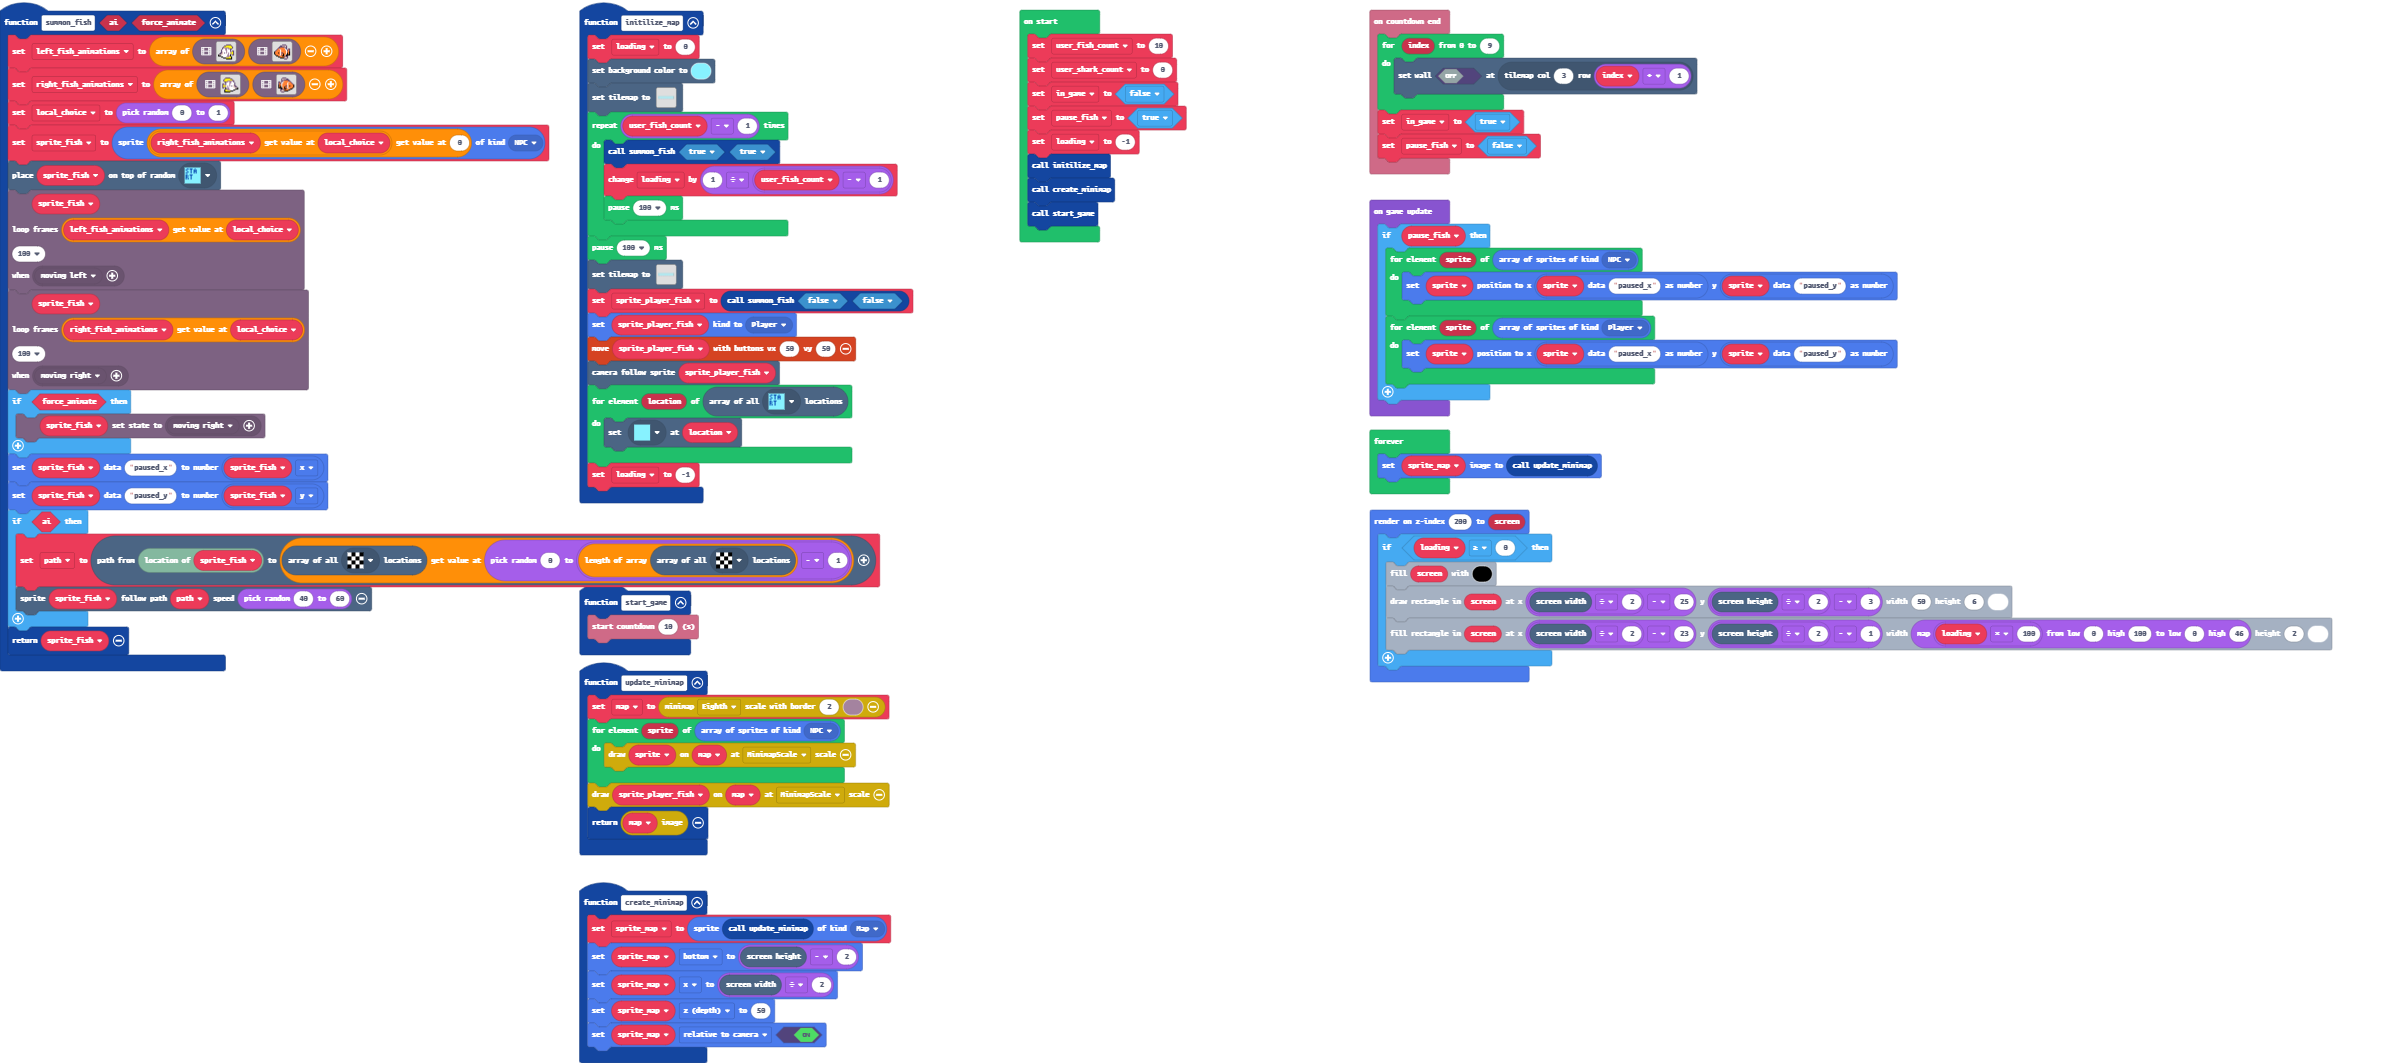
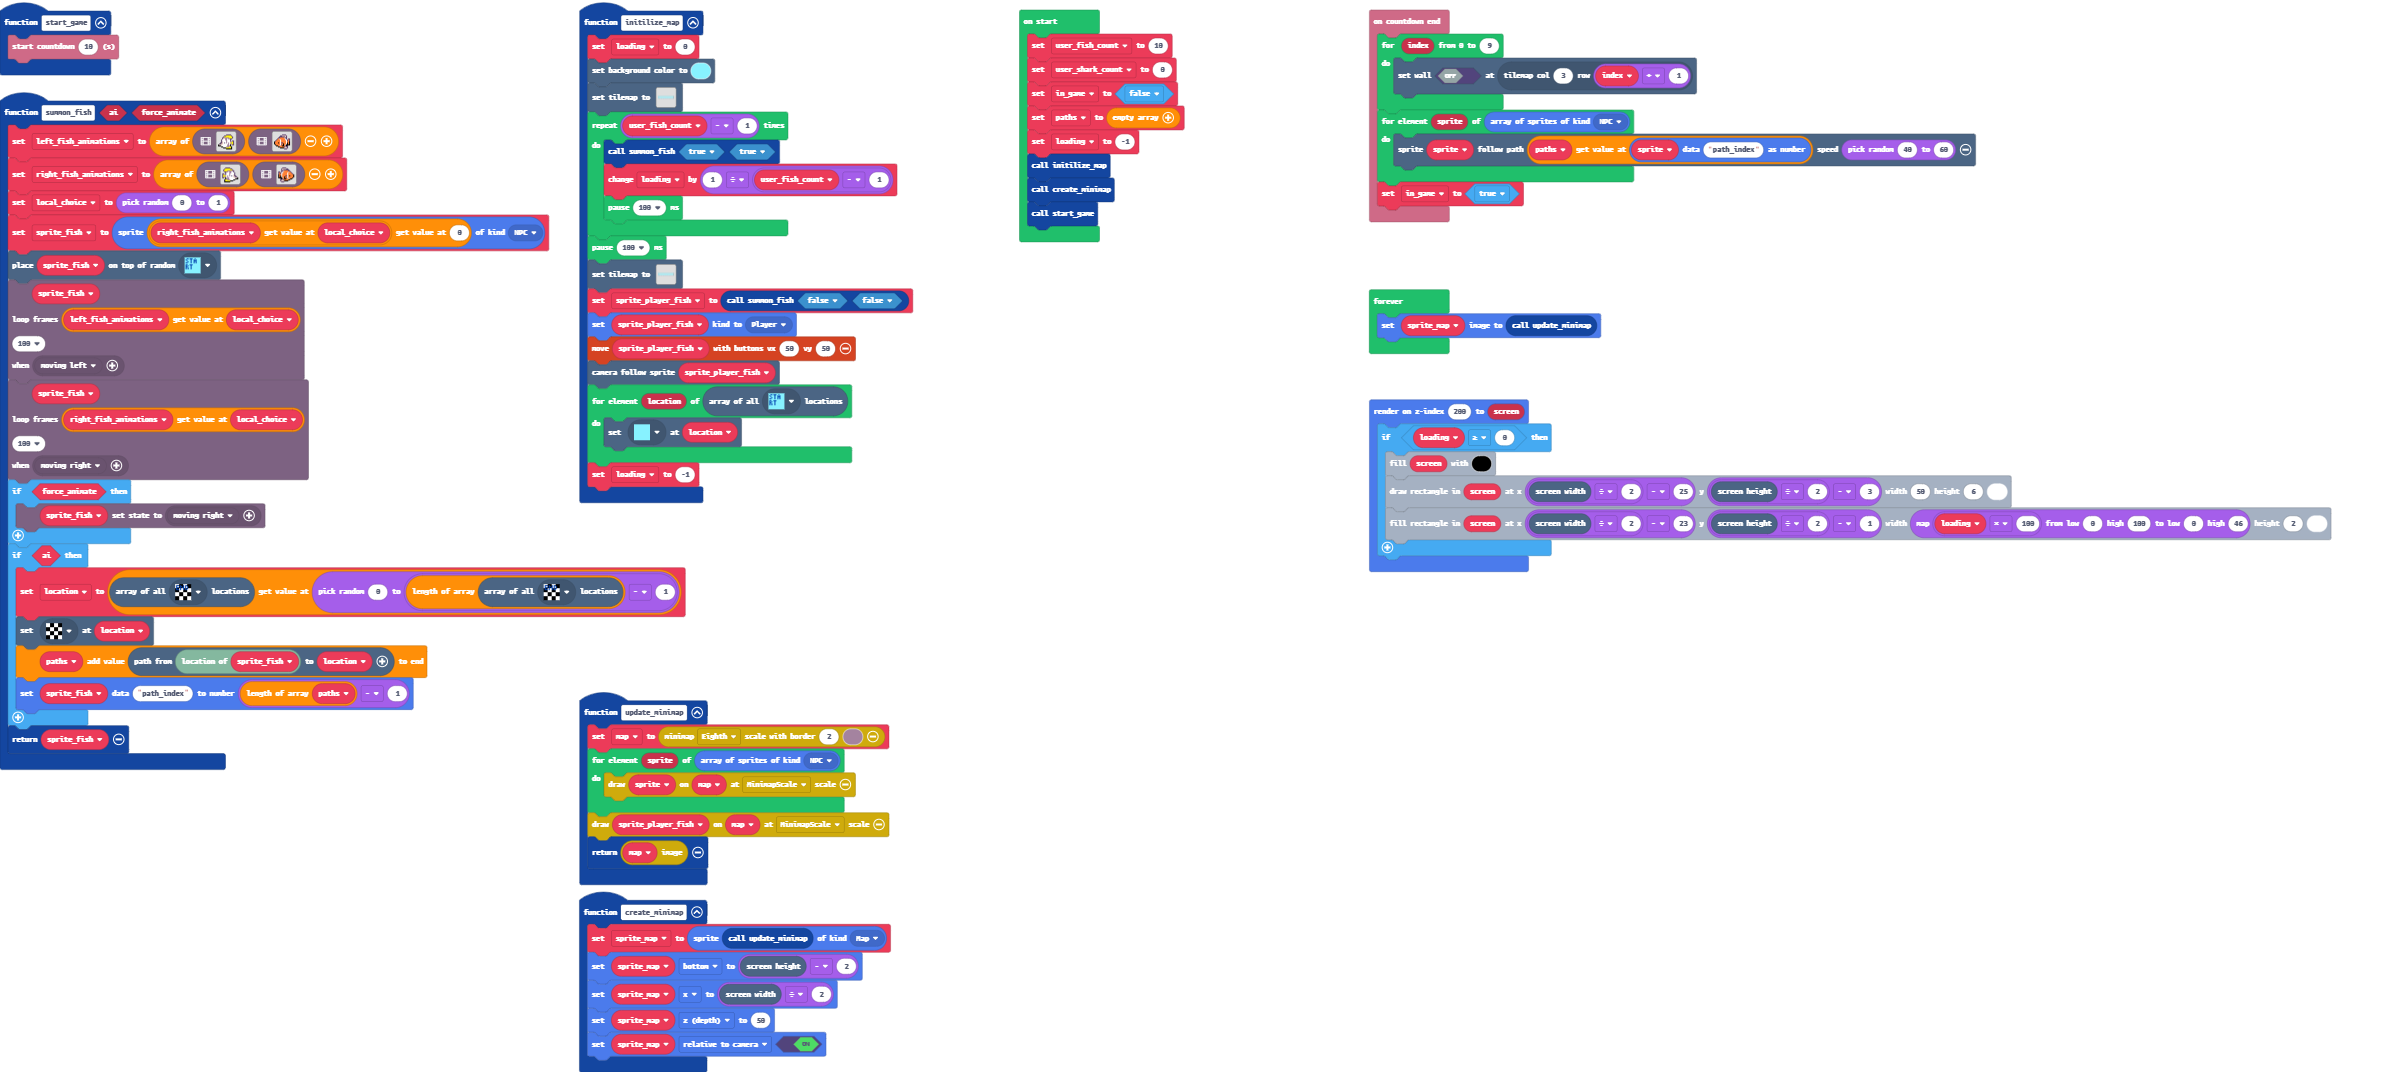
Teleportation bug fixed

Changed region(s): [[0.0, 0.0, 0.4037, 0.9934], [0.559, 0.031, 0.9937, 0.6519], [0.4347, 0.031, 0.4969, 0.2173]]

diff --git a/main.ts b/main.ts
@@ -91,11 +91,11 @@ function summon_fish (ai: boolean, force_animate: boolean) {
     if (force_animate) {
         character.setCharacterState(sprite_fish, character.rule(Predicate.MovingRight))
     }
-    sprites.setDataNumber(sprite_fish, "paused_x", sprite_fish.x)
-    sprites.setDataNumber(sprite_fish, "paused_y", sprite_fish.y)
     if (ai) {
-        path = scene.aStar(tiles.locationOfSprite(sprite_fish), tiles.getTilesByType(myTiles.tile12)[randint(0, tiles.getTilesByType(myTiles.tile12).length - 1)])
-        scene.followPath(sprite_fish, path, randint(40, 60))
+        location = tiles.getTilesByType(myTiles.tile16)[randint(0, tiles.getTilesByType(myTiles.tile16).length - 1)]
+        tiles.setTileAt(location, myTiles.tile12)
+        paths.push(scene.aStar(tiles.locationOfSprite(sprite_fish), location))
+        sprites.setDataNumber(sprite_fish, "path_index", paths.length - 1)
     }
     return sprite_fish
 }
@@ -110,8 +110,10 @@ info.onCountdownEnd(function () {
     for (let index = 0; index <= 9; index++) {
         tiles.setWallAt(tiles.getTileLocation(3, index + 1), false)
     }
+    for (let sprite of sprites.allOfKind(SpriteKind.NPC)) {
+        scene.followPath(sprite, paths[sprites.readDataNumber(sprite, "path_index")], randint(40, 60))
+    }
     in_game = true
-    pause_fish = false
 })
 function start_game () {
     info.startCountdown(10)
@@ -119,7 +121,7 @@ function start_game () {
 function initilize_map () {
     loading = 0
     scene.setBackgroundColor(9)
[2 lines of base64/hex data omitted]
         2222222222222222222222222222222222222222222222222222222222222222
         ................................................................
         ................................................................
@@ -132,7 +134,7 @@ function initilize_map () {
         ................................................................
         .....2........2.......222.....2....2.........22......2....2.....
         2222222222222222222222222222222222222222222222222222222222222222
-        `, [myTiles.transparency16,sprites.builtin.oceanSand6,sprites.dungeon.hazardWater,sprites.builtin.coral0,sprites.builtin.coral4,sprites.builtin.coral5,sprites.builtin.coral2,sprites.builtin.coral1,myTiles.tile1,myTiles.tile2,myTiles.tile3,myTiles.tile4,myTiles.tile5,myTiles.tile6,myTiles.tile7,myTiles.tile8,myTiles.tile9,myTiles.tile10,myTiles.tile11,myTiles.tile12,myTiles.tile14,myTiles.tile13,myTiles.tile15], TileScale.Sixteen))
+        `, [myTiles.transparency16,sprites.builtin.oceanSand6,sprites.dungeon.hazardWater,sprites.builtin.coral0,sprites.builtin.coral4,sprites.builtin.coral5,sprites.builtin.coral2,sprites.builtin.coral1,myTiles.tile1,myTiles.tile2,myTiles.tile3,myTiles.tile4,myTiles.tile5,myTiles.tile6,myTiles.tile7,myTiles.tile8,myTiles.tile9,myTiles.tile10,myTiles.tile11,myTiles.tile14,myTiles.tile13,myTiles.tile15,myTiles.tile16], TileScale.Sixteen))
     for (let index = 0; index < user_fish_count - 1; index++) {
         summon_fish(true, true)
         loading += 1 / (user_fish_count - 1)
@@ -180,33 +182,23 @@ function create_minimap () {
 let sprite_map: Sprite = null
 let map: minimap.Minimap = null
 let sprite_player_fish: Sprite = null
-let path: tiles.Location[] = []
+let location: tiles.Location = null
 let sprite_fish: Sprite = null
 let local_choice = 0
 let right_fish_animations: Image[][] = []
 let left_fish_animations: Image[][] = []
 let loading = 0
-let pause_fish = false
+let paths: tiles.Location[][] = []
 let in_game = false
 let user_fish_count = 0
 user_fish_count = 10
 let user_shark_count = 0
 in_game = false
-pause_fish = true
+paths = []
 loading = -1
 initilize_map()
 create_minimap()
 start_game()
-game.onUpdate(function () {
-    if (pause_fish) {
-        for (let sprite of sprites.allOfKind(SpriteKind.NPC)) {
-            sprite.setPosition(sprites.readDataNumber(sprite, "paused_x"), sprites.readDataNumber(sprite, "paused_y"))
-        }
-        for (let sprite of sprites.allOfKind(SpriteKind.Player)) {
-            sprite.setPosition(sprites.readDataNumber(sprite, "paused_x"), sprites.readDataNumber(sprite, "paused_y"))
-        }
-    }
-})
 forever(function () {
     sprite_map.setImage(update_minimap())
 })

diff --git a/tilemap.g.ts b/tilemap.g.ts
@@ -32,6 +32,8 @@ namespace myTiles {
     export const tile13 = image.ofBuffer(hex``);
     //% fixedInstance jres blockIdentity=images._tile
     export const tile15 = image.ofBuffer(hex``);
+    //% fixedInstance jres blockIdentity=images._tile
+    export const tile16 = image.ofBuffer(hex``);
 
 }
 // Auto-generated code. Do not edit.
